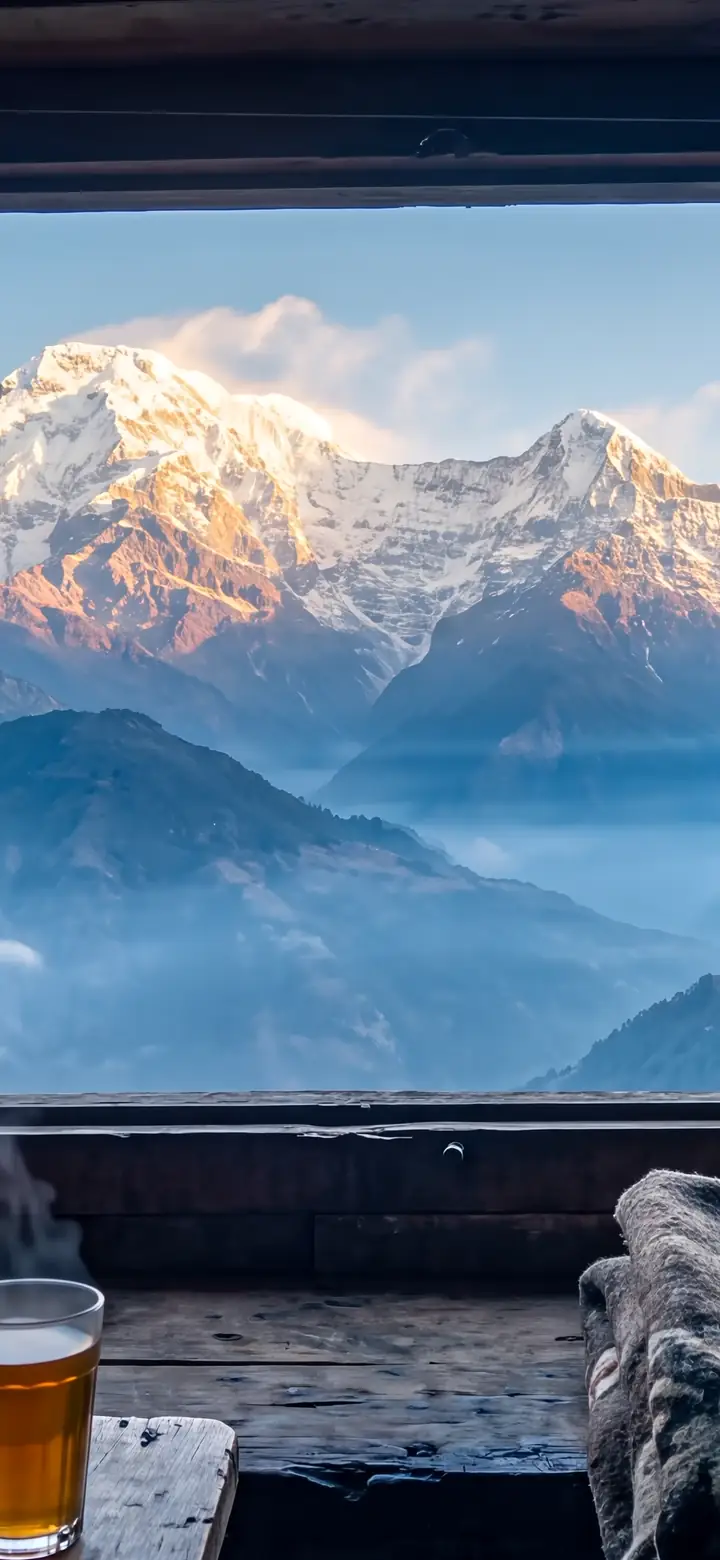
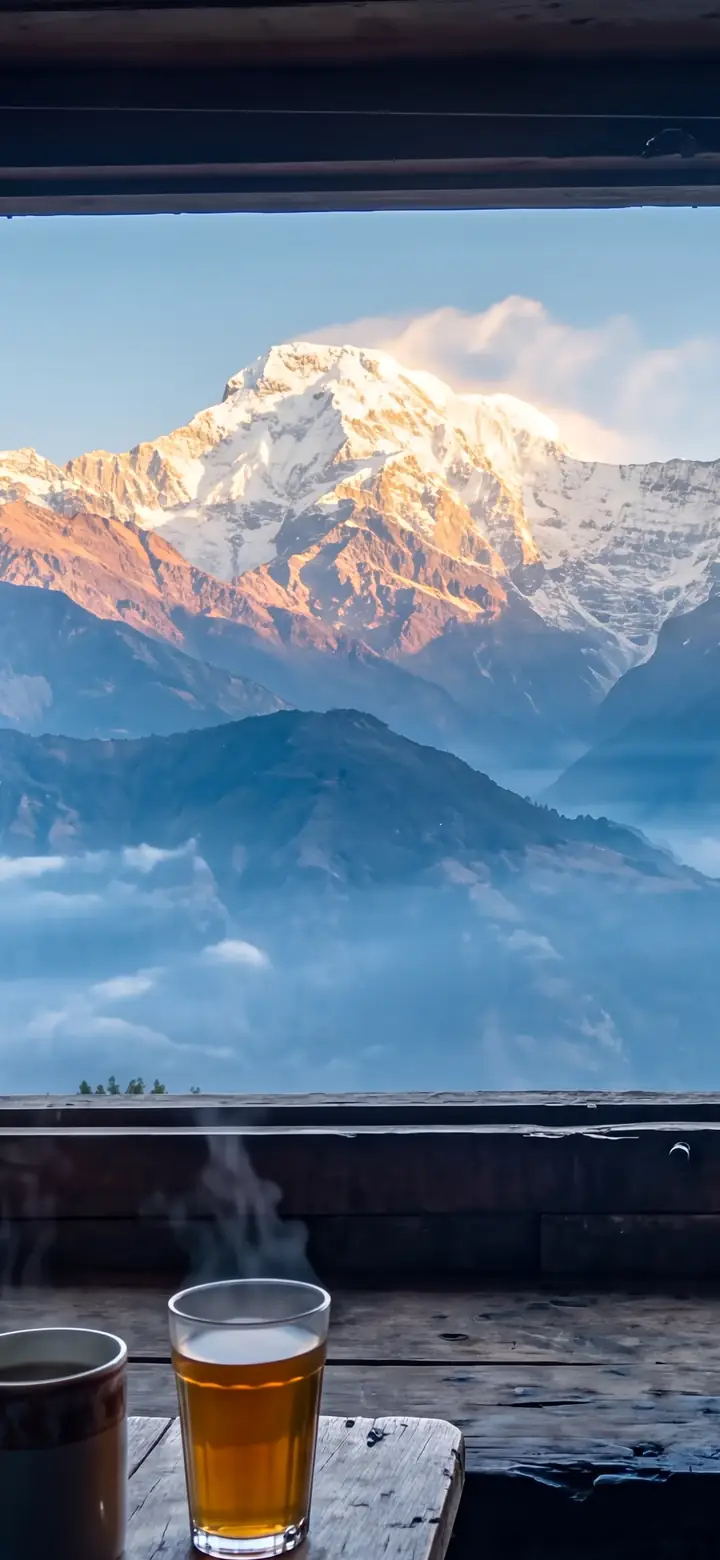
מרכוז הקרופ למובייל בפאנל החדר — בלי לג'נרט כלום
הטלפון רואה רק 26% מרוחב הפריים. ב-focus 0.50 העמודה הזו
נחתה על הר חשוף וחתכה את כוס התה בקצה התחתון, והפאנל איבד
בדיוק את מה שעושה אותו אינטימי.

focus 0.39: הפסגה נשארת במרכז, וכוס התה והספל שלמים מתחתיה.

זה משנה אך ורק את קבצי המובייל — הפריים הרחב זהה לחלוטין
למה שהיה. אותה תמונה, אותו קליפ, רק חלון אחר בטלפון.

הרעיון של שחר, ואחרי ארבעה ניסיונות ג'ינרוט (v5/v6/v7) הוא
גם הפתרון הנכון: 0 קרדיט, ובלי לוותר על הקסם של המקורית.

diff --git a/index.html b/index.html
@@ -24,7 +24,7 @@
 <link href="https://fonts.googleapis.com/css2?family=Frank+Ruhl+Libre:wght@300;400;500;700&family=Assistant:wght@200;300;400;600;700&display=swap" rel="stylesheet">
 <link rel="preload" as="image" href="img/S01-boudhanath-dawn-w.webp" media="(min-width:769px)">
 <link rel="preload" as="image" href="img/S01-boudhanath-dawn-m.webp" media="(max-width:768px)">
-<link rel="stylesheet" href="css/style.css?v=21">
+<link rel="stylesheet" href="css/style.css?v=22">
 
 <script type="application/ld+json">
 {
@@ -654,10 +654,10 @@
   <span data-i18n="wa.float">דברו איתנו</span>
 </a>
 
-<script src="js/i18n.js?v=21"></script>
-<script src="js/i18n-content.js?v=21"></script>
-<script src="js/data.js?v=21"></script>
-<script src="js/data-en.js?v=21"></script>
-<script src="js/app.js?v=21"></script>
+<script src="js/i18n.js?v=22"></script>
+<script src="js/i18n-content.js?v=22"></script>
+<script src="js/data.js?v=22"></script>
+<script src="js/data-en.js?v=22"></script>
+<script src="js/app.js?v=22"></script>
 </body>
 </html>
